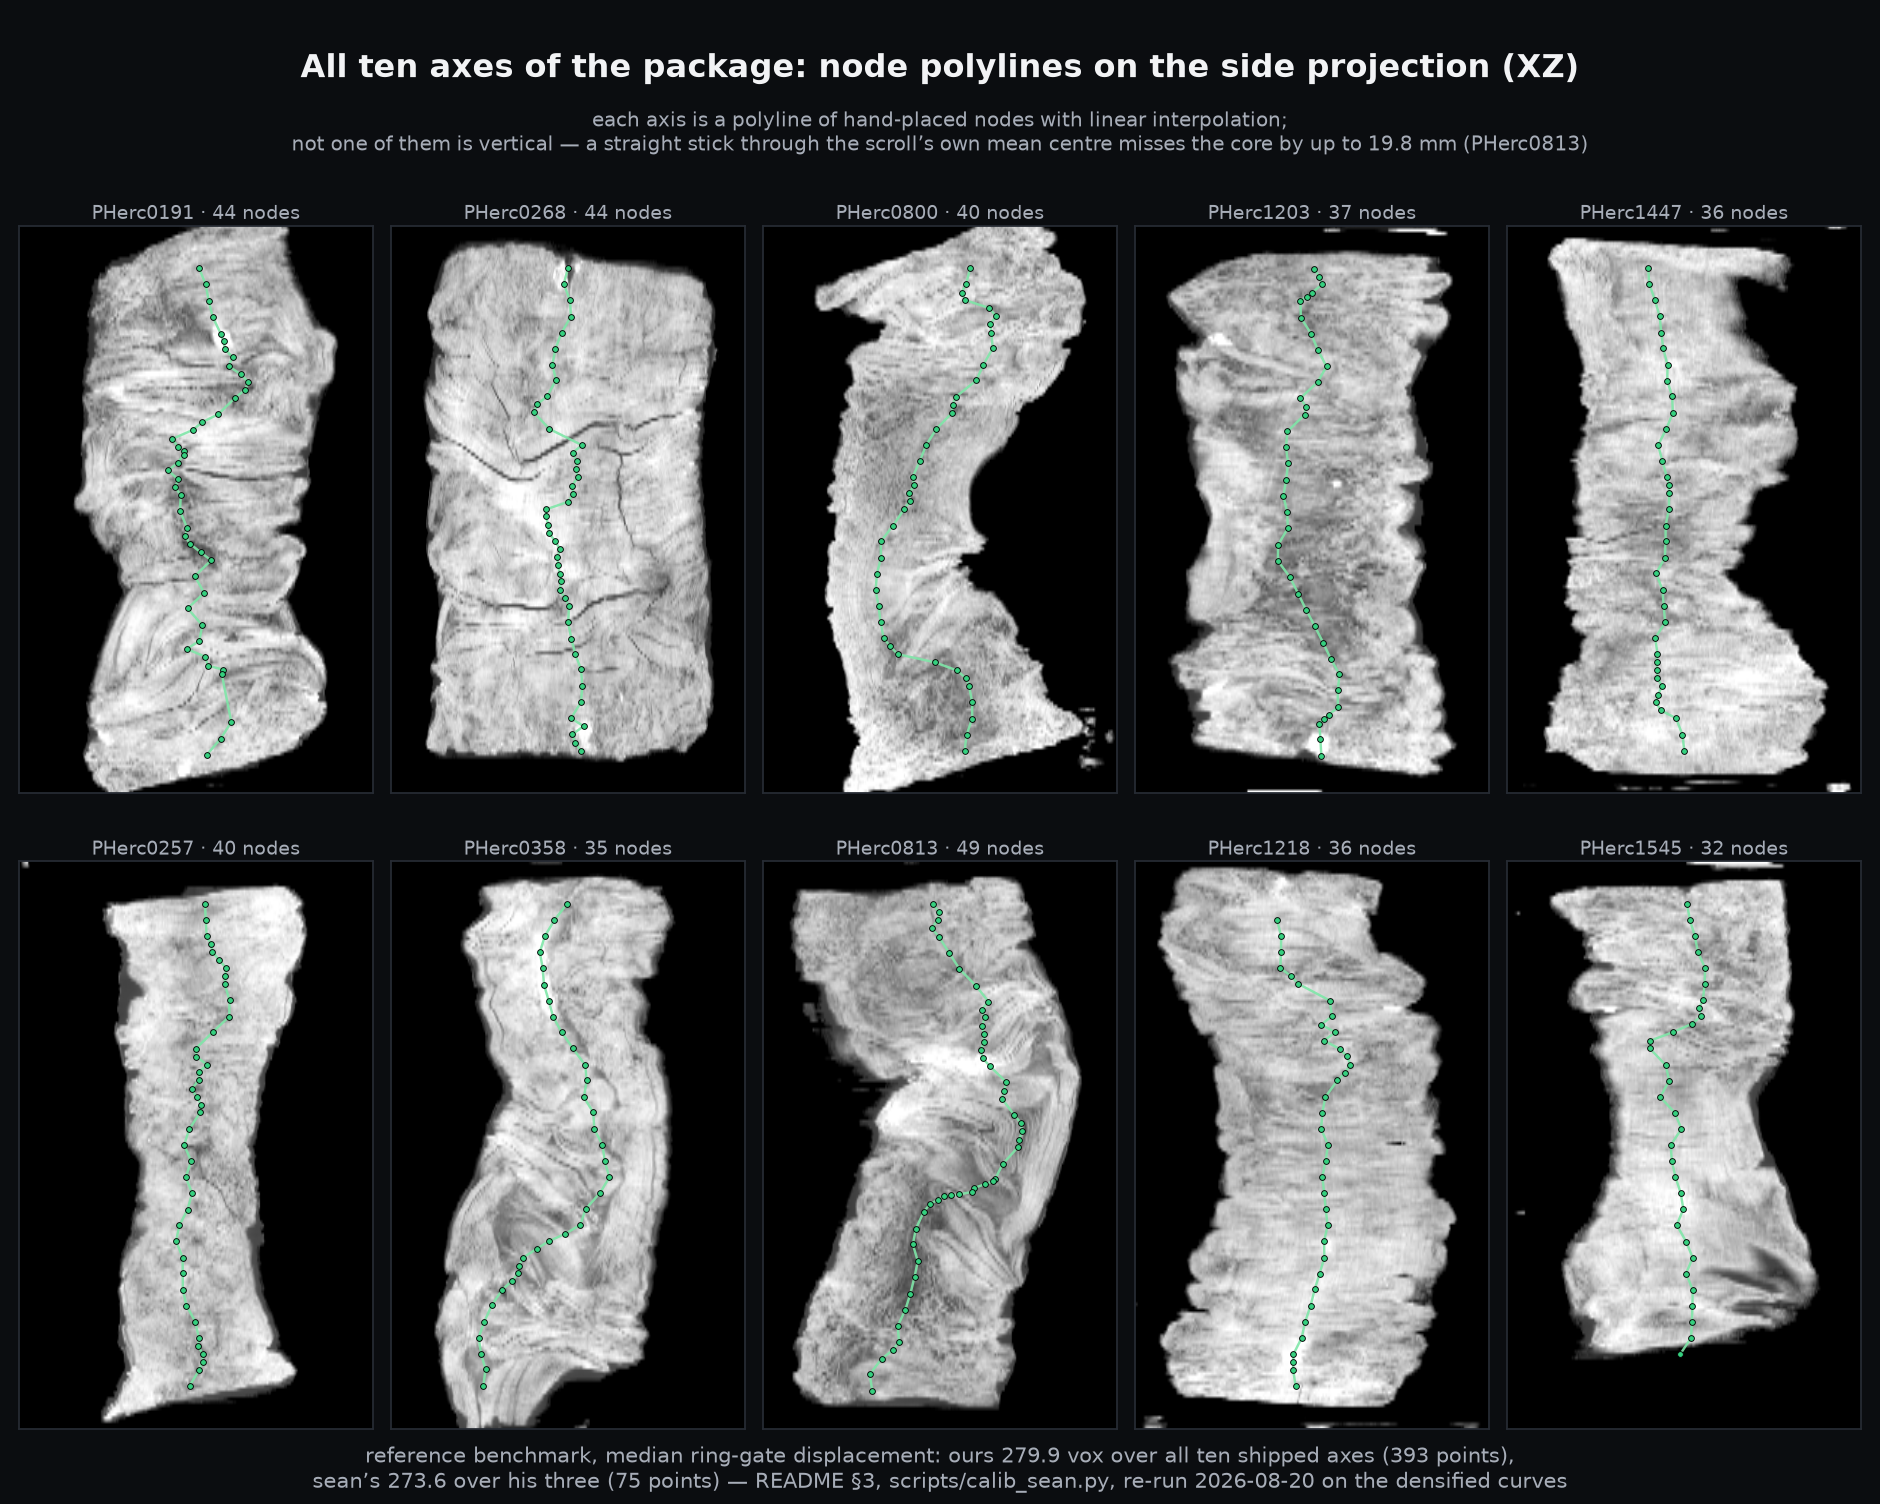
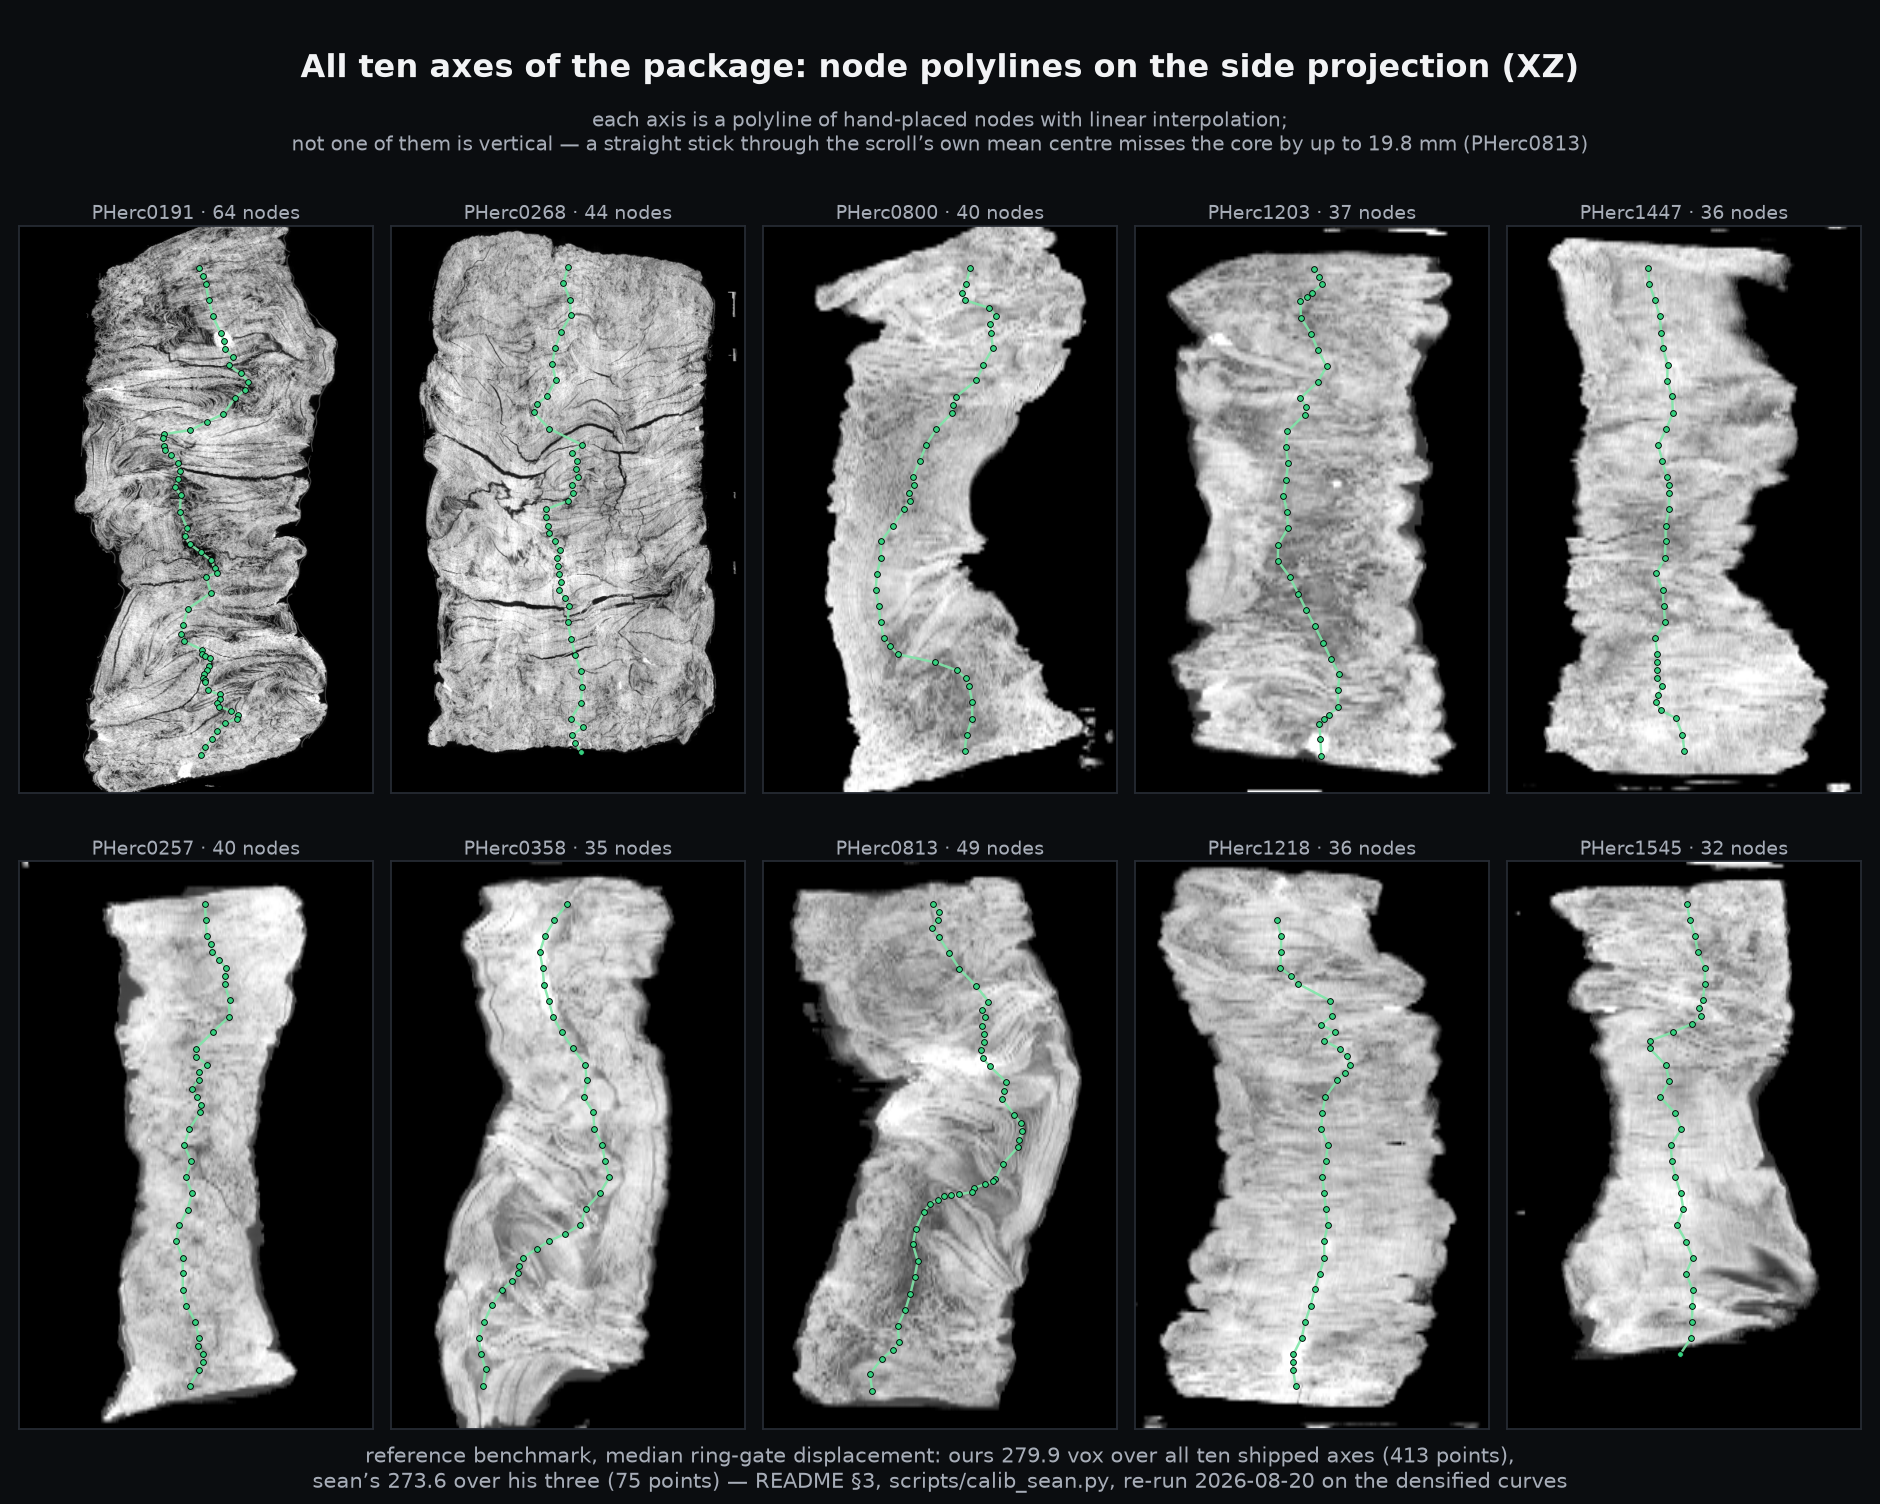
Re-render the ten-axis panel on the current curves and carry the point count forward

Changed region(s): [[0.216, 0.1562, 0.4011, 0.5312], [0.0309, 0.125, 0.1851, 0.5312]]

diff --git a/README.md b/README.md
@@ -1617,7 +1617,7 @@ centres" below.
 >   6.0 mm line. §7 states both numbers.
 > - `axis_polylines_all_ten.png` now draws the 32–49-node polylines, the
 >   19.8 mm Motivation deviation (PHerc0813), and §3's re-measured ring-gate
->   median — 279.9 vox over 393 points against sean's 273.6 over 75 — see
+>   median — 279.9 vox over 413 points against sean's 273.6 over 75 — see
 >   the dated note in §3, which that re-measurement also updates.
 > - `centre_in_core_PHerc0191.png` now draws the green cross where the shipped
 >   file puts it. The two crosses at z = 15480 are 8.48 mm apart where the
@@ -1654,7 +1654,7 @@ centres" below.
   quantities are the current ones — the 19.8 mm of the Motivation section
   (`scripts/axis_stats.py`, PHerc0813; the earlier render printed 20.7 mm,
   which was PHerc0268's, now 19.3) and the ring-gate calibration of §3
-  re-measured today — ours 279.9 voxels over 393 points against sean's 273.6
+  re-measured today — ours 279.9 voxels over 413 points against sean's 273.6
   over 75, marked on the panel as the 2026-08-20 re-run (see §3's dated
   note). **An earlier draft of this panel printed "265 against 274"** — the
   withdrawn three-scroll, pre-finalization figure §3 corrects — and the
@@ -2003,7 +2003,7 @@ inferred.
   diff is those five lines and nothing else, and both md5s of every file are
   tabulated in §8. Every measured number in this README predates the stamp and is
   unaffected by it. The md5 table in §8 is a further round out of date: the
-  second annotation pass rewrote all ten files with 393 points in place of 279,
+  second annotation pass rewrote all ten files with 413 points in place of 279,
   so neither column of that table is the current hash of anything. It is kept
   because its purpose was to make the *pre-stamp* files identifiable, and it
   still does that.
